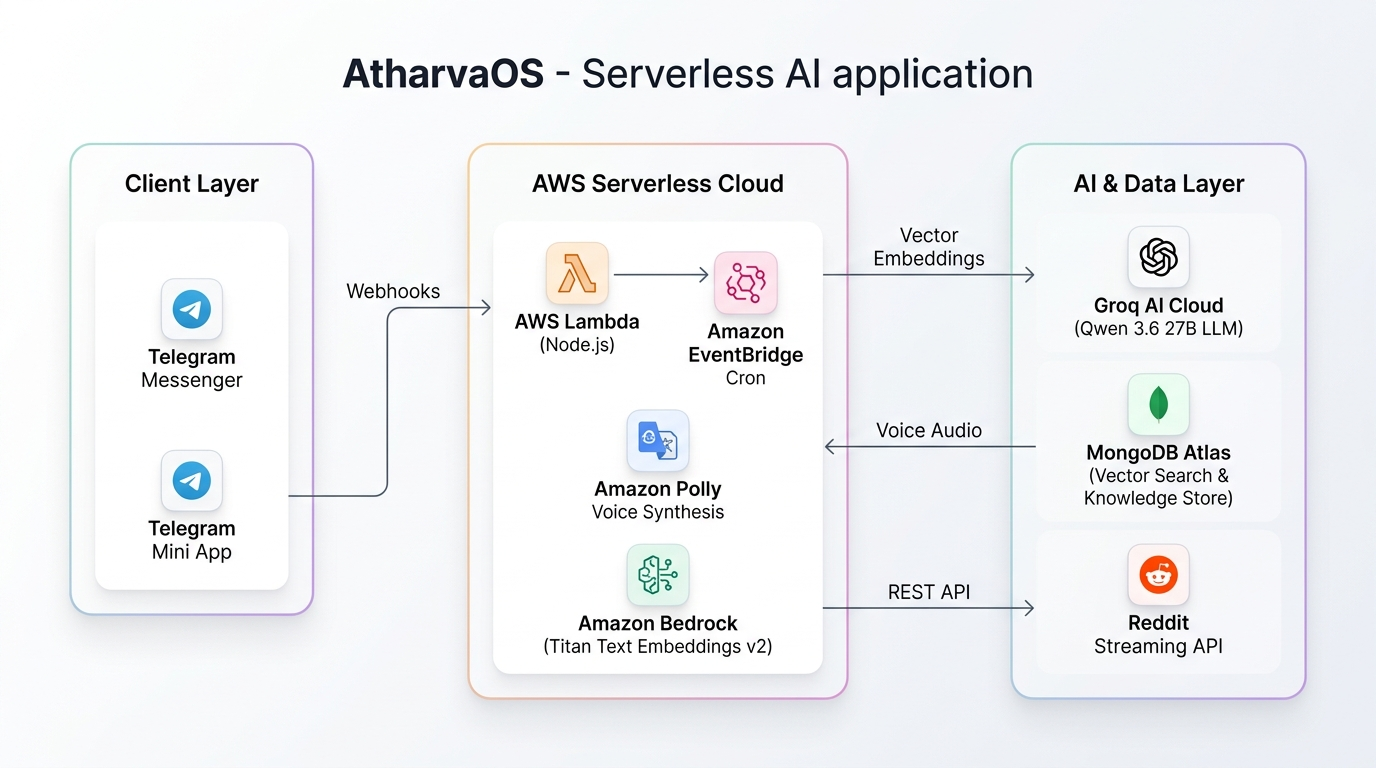
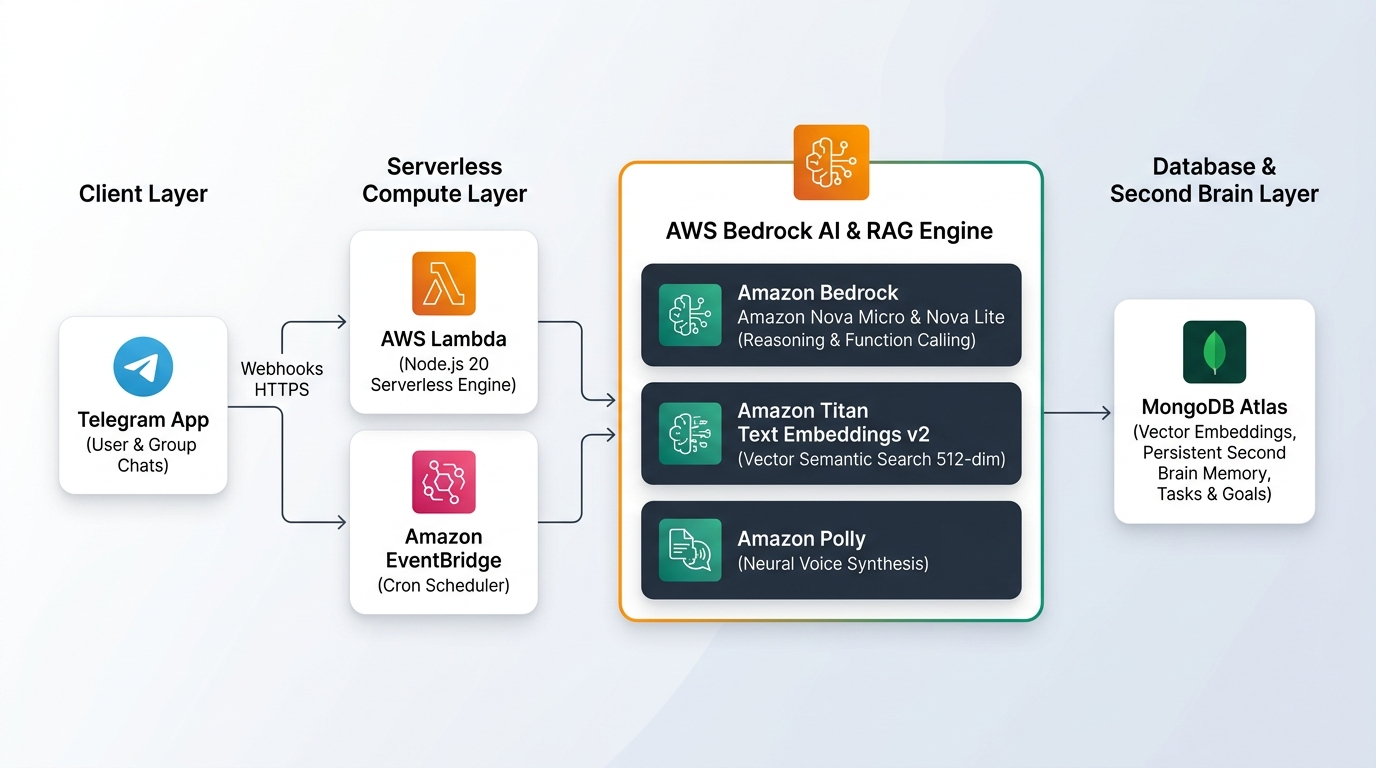
docs: update architecture diagram with pure AWS Bedrock and Titan RAG second brain

diff --git a/README.md b/README.md
@@ -2,13 +2,13 @@
 
 [![Telegram Bot](https://img.shields.io/badge/Telegram-Bot-2CA5E0?style=for-the-badge&logo=telegram&logoColor=white)](https://t.me/Atharva_Produtivity_Bot)
 [![AWS Lambda](https://img.shields.io/badge/AWS-Lambda-FF9900?style=for-the-badge&logo=awslambda&logoColor=white)](https://aws.amazon.com/lambda/)
+[![Amazon Bedrock Nova](https://img.shields.io/badge/Amazon_Bedrock-Nova_Micro_%26_Lite-0052CC?style=for-the-badge&logo=amazonwebservices&logoColor=white)](https://aws.amazon.com/bedrock/)
 [![Amazon Bedrock Titan](https://img.shields.io/badge/Amazon_Bedrock-Titan_Embeddings_v2-0052CC?style=for-the-badge&logo=amazonwebservices&logoColor=white)](https://aws.amazon.com/bedrock/)
 [![Amazon Polly](https://img.shields.io/badge/Amazon-Polly_Voice-232F3E?style=for-the-badge&logo=amazonwebservices&logoColor=white)](https://aws.amazon.com/polly/)
-[![Groq AI](https://img.shields.io/badge/Groq-Qwen_3.6_27B_%7C_Vision-F55036?style=for-the-badge)](https://groq.com/)
 [![MongoDB Atlas Vector](https://img.shields.io/badge/MongoDB-Atlas_Vector_Search-47A248?style=for-the-badge&logo=mongodb&logoColor=white)](https://www.mongodb.com/atlas)
 [![Vercel](https://img.shields.io/badge/Vercel-Hosted-000000?style=for-the-badge&logo=vercel&logoColor=white)](https://vercel.com/)
 
-**AtharvaOS** is an enterprise-grade serverless AI personal productivity operating system and **RAG-powered second brain** built on Node.js, AWS Lambda, Amazon Bedrock, and MongoDB Atlas. It functions as an energetic Telegram copilot, high-precision task planner, spoken audio briefer, and Telegram Mini App.
+**AtharvaOS** is an enterprise-grade serverless AI personal productivity operating system and **RAG-powered second brain** built entirely on **Amazon Bedrock (Nova Micro, Nova Lite & Titan Embeddings v2)**, **AWS Lambda**, **Amazon Polly**, and **MongoDB Atlas**. It functions as an energetic Telegram copilot, high-precision task planner, spoken audio briefer, and Telegram Mini App.
 
 ---
 
@@ -25,16 +25,19 @@ flowchart TD
     end
 
     subgraph AWSCloud["⚡ AWS Serverless Cloud (ap-south-1)"]
-        LAMBDA["⚡ AWS Lambda (AtharvaOS-Bot Core)"]
-        EB["⏰ Amazon EventBridge (5m Cron Trigger)"]
-        POLLY["🎙 Amazon Polly (Matthew Voice Synthesis)"]
-        TITAN["🧠 Amazon Bedrock (Titan Text Embeddings v2)"]
+        LAMBDA["⚡ AWS Lambda (AtharvaOS Core Engine)"]
+        EB["⏰ Amazon EventBridge (5m Scheduled Trigger)"]
     end
 
-    subgraph DataAndAI["🧠 AI & Data Persistence Layer"]
-        GROQ["⚡ Groq AI Pool (Qwen 3.6 27B & Llama 3.2 Vision)"]
-        MONGO[("📦 MongoDB Atlas (Vector Search & Knowledge Base)")]
-        REDDIT["🎬 Reddit Streaming API"]
+    subgraph BedrockSuite["🧠 Amazon Bedrock AI & Voice Suite"]
+        NOVA_MICRO["🧠 Amazon Nova Micro (Reasoning & Tools)"]
+        NOVA_LITE["👁 Amazon Nova Lite (Multimodal Vision OCR)"]
+        TITAN_EMBED["⚡ Amazon Titan Text Embeddings v2 (RAG)"]
+        POLLY["🎙 Amazon Polly (Spoken Audio Synthesis)"]
+    end
+
+    subgraph DataLayer["📦 Data Layer"]
+        MONGO[("📦 MongoDB Atlas (Vector Search & Knowledge Store)")]
     end
 
     TG <-->|"Webhooks / Updates"| LAMBDA
@@ -42,50 +45,52 @@ flowchart TD
     ADMIN <-->|"REST API"| LAMBDA
 
     EB -->|"Scheduled 5m Ping"| LAMBDA
-    LAMBDA -->|"Synthesize Spoken Briefing"| POLLY
-    LAMBDA -->|"Generate 512d Embeddings"| TITAN
-    LAMBDA -->|"Semantic Vector Search & Storage"| MONGO
-    LAMBDA -->|"Contextual LLM Reasoning"| GROQ
-    LAMBDA -->|"Stream Video Buffers"| REDDIT
+    LAMBDA -->|"Reasoning & Tool Execution"| NOVA_MICRO
+    LAMBDA -->|"Multimodal Image OCR"| NOVA_LITE
+    LAMBDA -->|"512d Vector Embeddings"| TITAN_EMBED
+    LAMBDA -->|"Spoken Voice Notes"| POLLY
+    LAMBDA -->|"Vector Search & Data Persistence"| MONGO
 ```
 
 ---
 
 ## 🌟 Superpowers & Core Features
 
-### 🧠 1. RAG Knowledge Engine (Amazon Titan Text Embeddings v2)
+### 🧠 1. Amazon Bedrock Foundation Models & Multimodal Vision
+* **Amazon Nova Micro (`apac.amazon.nova-micro-v1:0`):** Ultra-low latency reasoning, conversational planning, structured JSON function tool execution, and contextual memory operations.
+* **Amazon Nova Lite (`apac.amazon.nova-lite-v1:0`):** Multimodal document & image analysis — snap a photo of handwritten notes or a whiteboard checklist and AtharvaOS extracts, schedules, and categorizes tasks automatically.
+* **Amazon Titan Text Embeddings v2 (`amazon.titan-embed-text-v2:0`):** Semantic vector retrieval for long-term user memory and knowledge base context.
+
+### 🔍 2. RAG Second Brain & Semantic Vector Search
 * **Semantic Vector Retrieval:** Uses Amazon Bedrock's **`amazon.titan-embed-text-v2:0`** in `ap-south-1` to generate 512-dimension normalized embeddings for every task, note, goal, bookmark, and study plan.
 * **Instant Historical Recall:** Performs vector cosine similarity search across your entire historical knowledge base on every query. Ask *"What did I plan for Rust?"* or *"What did I note down about OS assignments?"* and AtharvaOS grounds its response in your past records.
 * **Zero-Hallucination Context Grounding:** Injects real-time semantic context into LLM prompts without blowing context windows or incurring high token costs.
 
-### 🎙 2. Amazon Polly AI Voice Notes (`/speak`)
+### 🎙 3. Amazon Polly AI Voice Notes (`/speak`)
 * **Spoken Audio Briefings:** Generates native Telegram voice notes using Amazon Polly's **Matthew** neural voice.
 * **Speech Pronunciation Sanitizer:** Automatically scrubs Markdown symbols, code blocks, bullet points, and URLs into smooth conversational speech.
 * **Slash Commands & Natural Triggers:** Trigger via `/speak <prompt>`, `/voice <prompt>`, `/audio <prompt>`, or by simply asking *"speak to me"* or *"bol ke batao"*.
 * **Daily Quota Governance:** Unlimited voice synthesis for the Creator/Owner; 5 free notes per day for guests.
 
-### ⏰ 3. Automated Daily Briefings & Granular User Toggles
+### ⏰ 4. Automated Daily Briefings & Granular User Toggles
 * **8:00 AM Morning Game Plan:** Prioritizes today's urgent deadlines, focus items, and daily momentum.
 * **10:00 PM Nightly Accountability Check-In:** Reviews completed wins and highlights pending tasks before bed.
 * **1-Tap Interactive Control Hub (`/reminders` / `/daily`):** Easily turn ON/OFF 8 AM Morning Briefings, 10 PM Night Check-Ins, or all daily reminders with instant button toggles.
 * **Natural Voice/Text Controls:** Simply tell the bot *"stop morning messages"*, *"disable nightly check-in"*, or *"mute daily reminders"*.
 
-### 👥 4. Group Privacy & Direct Slash Commands (`/ask` / `/ai`)
+### 👥 5. Group Privacy & Direct Slash Commands (`/ask` / `/ai`)
 * **Strict Group Privacy Guardrail:** Automated personal reminders and daily summaries are **strictly excluded from group chats** to ensure your data stays 100% private.
 * **Direct Group Queries (`/ask <question>`):** Group members can query the bot with `/ask`, `/ai`, or by tagging `@Atharva_Produtivity_Bot`.
 * **Stateless Mention Parser:** Robust mention parsing ensures instant responses across all Telegram client variants.
 
-### 📱 5. Telegram Mini App (Flo 101 Design)
+### 📱 6. Telegram Mini App (Flo 101 Design)
 * **Safe Sandbox Experience:** Accessible via the Telegram menu button `[🔲 Open AtharvaOS]` or chat menu.
 * **Interactive SVG Progress Ring:** Real-time completion metrics, dynamic category filtering, and micro-animations.
 * **Project-Task Hierarchy:** Organize subtasks neatly inside high-level project containers.
 
-### 💬 6. Human-Paced Multi-Bubble Messaging
+### 💬 7. Human-Paced Multi-Bubble Messaging
 * **Conversational Pacing:** Automatically breaks multi-paragraph AI answers into natural multi-bubble messages.
 * **Micro-Typing Simulation:** Displays live `"typing"` indicators between message bubbles for an organic conversation flow.
-
-### 🎬 7. Reddit Video Streaming (`/video`)
-* **Binary Buffer Streaming:** Streams raw Reddit `.mp4` video buffers directly into Telegram with `{ supports_streaming: true }`, ensuring instant scrubbing and native audio playback.
 
 ---
 
@@ -103,7 +108,6 @@ flowchart TD
 | `/reflections` | View your 7-day retrospective growth log | `/reflections` |
 | `/done <id>` | Mark a specific task completed by ID | `/done 6a813d35...` |
 | `/delete <id>` | Delete a specific task or reminder | `/delete 6a813d35...` |
-| `/video [subreddit]` | Stream a video buffer from any subreddit | `/video dankvideos` |
 | `/motivate` | Instant high-energy motivation shot 🔥 | `/motivate` |
 | `/roast` | Playful, witty Hinglish roast 😂 | `/roast` |
 | `/help` | Complete interactive command guide | `/help` |
@@ -126,16 +130,14 @@ BOT_TOKEN=1234567890:ABCdefGHIjklMNOpqrsTUVwxyz
 CHAT_ID=5275149287
 MONGO_URI=mongodb+srv://user:pass@cluster0.mongodb.net/atharvaos?retryWrites=true&w=majority
 
-# Amazon Bedrock (ap-south-1)
+# Amazon Bedrock & AWS Services (ap-south-1)
 AWS_REGION=ap-south-1
 AWS_ACCESS_KEY_ID=your_aws_access_key
 AWS_SECRET_ACCESS_KEY=your_aws_secret_key
+BEDROCK_LLM_MODEL_ID=apac.amazon.nova-micro-v1:0
 BEDROCK_EMBEDDING_MODEL_ID=amazon.titan-embed-text-v2:0
 
-# LLM Reasoning & Fallback
-GROQ_API_KEY=gsk_key1,gsk_key2
-MEME_API_URL=https://redditreels.onrender.com
-MEME_API_KEY=your_meme_api_key
+# Admin Secret
 ADMIN_SECRET=your_admin_secret
 ```
 
@@ -164,13 +166,13 @@ The repository includes automated CI/CD (`.github/workflows/deploy.yml`) that bu
 Required **GitHub Actions Secrets**:
 * `AWS_ACCESS_KEY_ID` *(Lambda Deploy Role)*
 * `AWS_SECRET_ACCESS_KEY` *(Lambda Deploy Role)*
-* `BEDROCK_AWS_ACCESS_KEY_ID` *(Bedrock Titan & Polly Access)*
-* `BEDROCK_AWS_SECRET_ACCESS_KEY` *(Bedrock Titan & Polly Access)*
+* `BEDROCK_AWS_ACCESS_KEY_ID` *(Bedrock Nova, Titan & Polly Access)*
+* `BEDROCK_AWS_SECRET_ACCESS_KEY` *(Bedrock Nova, Titan & Polly Access)*
 * `BEDROCK_AWS_REGION` *(Default: `ap-south-1`)*
+* `BEDROCK_LLM_MODEL_ID` *(Default: `apac.amazon.nova-micro-v1:0`)*
 * `BEDROCK_EMBEDDING_MODEL_ID` *(Default: `amazon.titan-embed-text-v2:0`)*
 * `BOT_TOKEN`
 * `MONGO_URI`
-* `GROQ_API_KEY`
 * `CHAT_ID`
 
 ---
